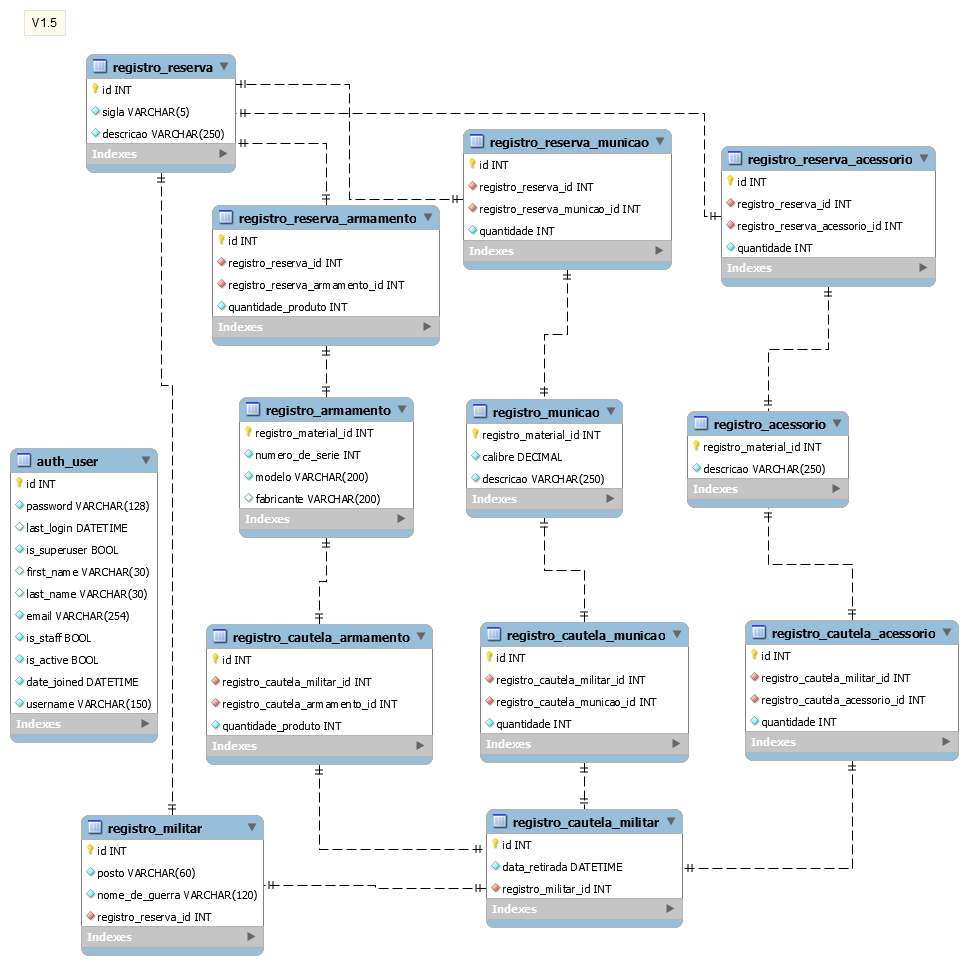
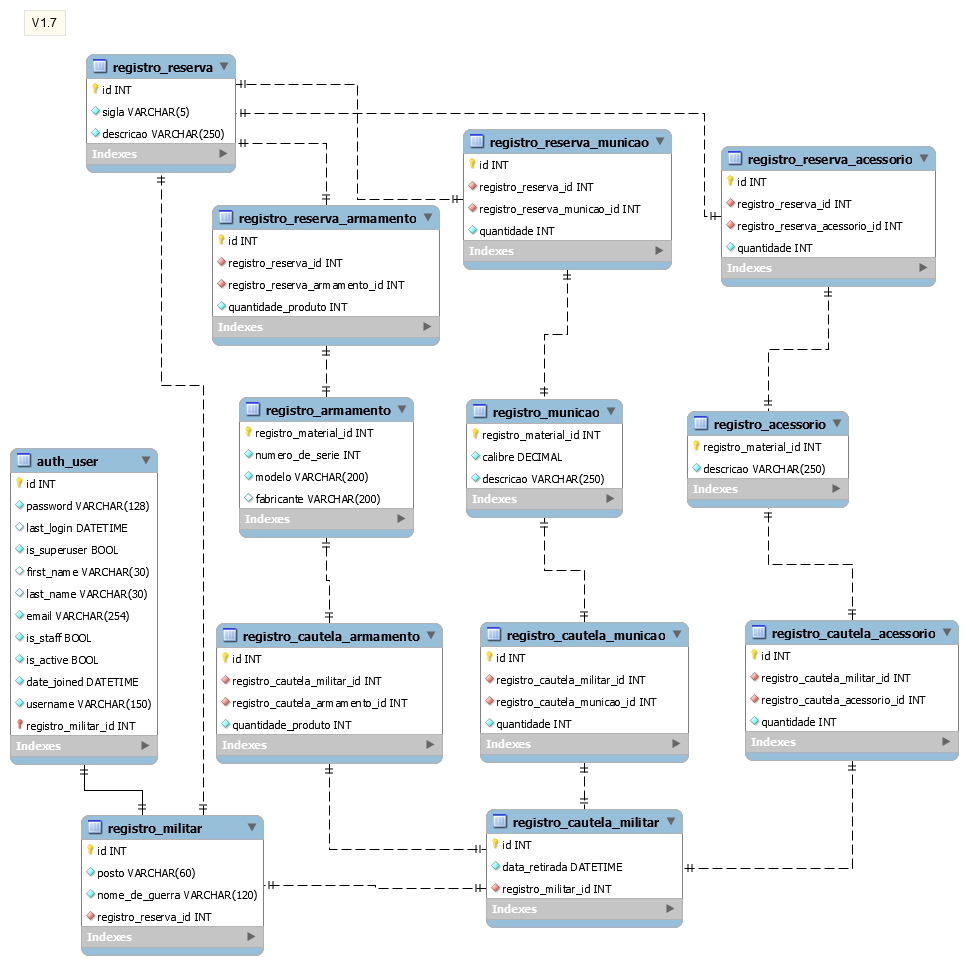
Linkado user com militar

Changed region(s): [[0.0, 0.6218, 0.4649, 0.8083], [0.4339, 0.7461, 0.4649, 0.8083]]

diff --git a/README.md b/README.md
@@ -37,7 +37,7 @@ Pass: virtualbox
   - [x] Capa
   - [ ] Contracapa com tema, equipe, dados da disciplina e demais informações pertinentes ao tema.
   - [x] Diagrama de Classes 
-  - [ ] Entidade e Relacionamento `TODO: Relacionar user com militar`
+  - [x] Entidade e Relacionamento
 - [ ] Slides
 - [x] *Login/Logout*
 - [x] *Menu de opções*
